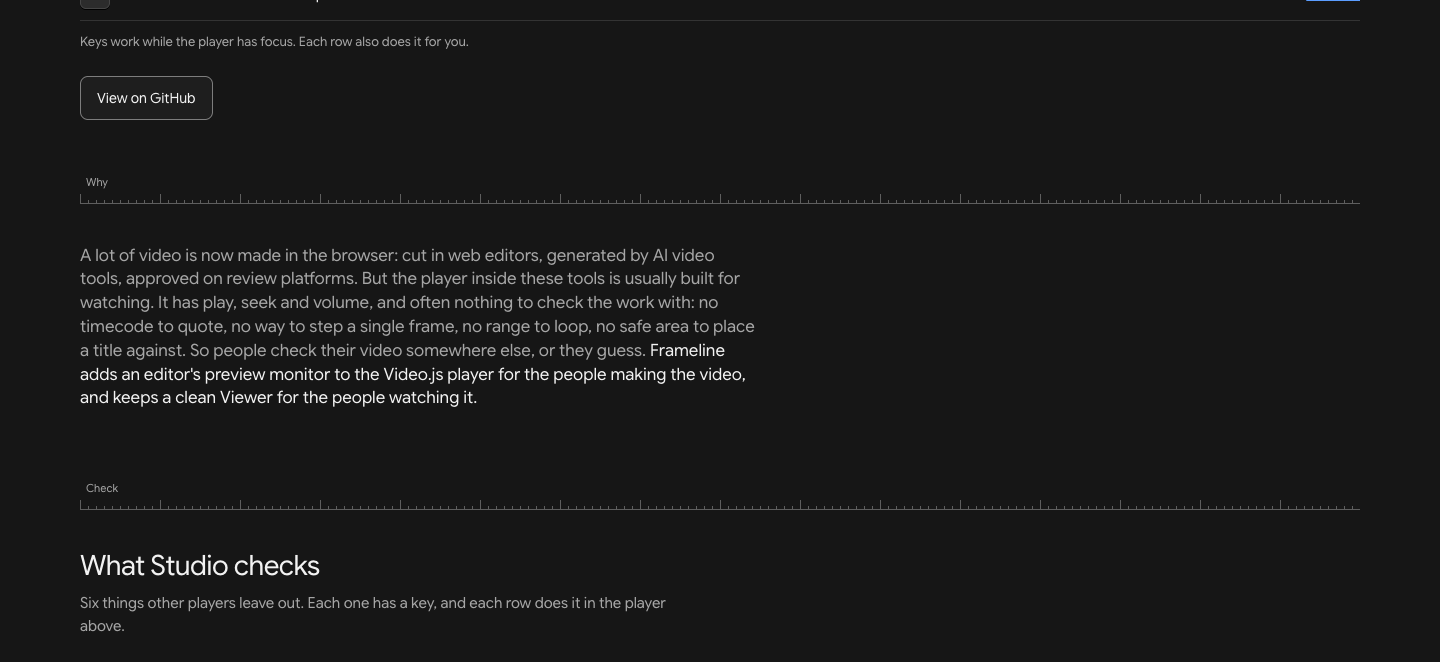
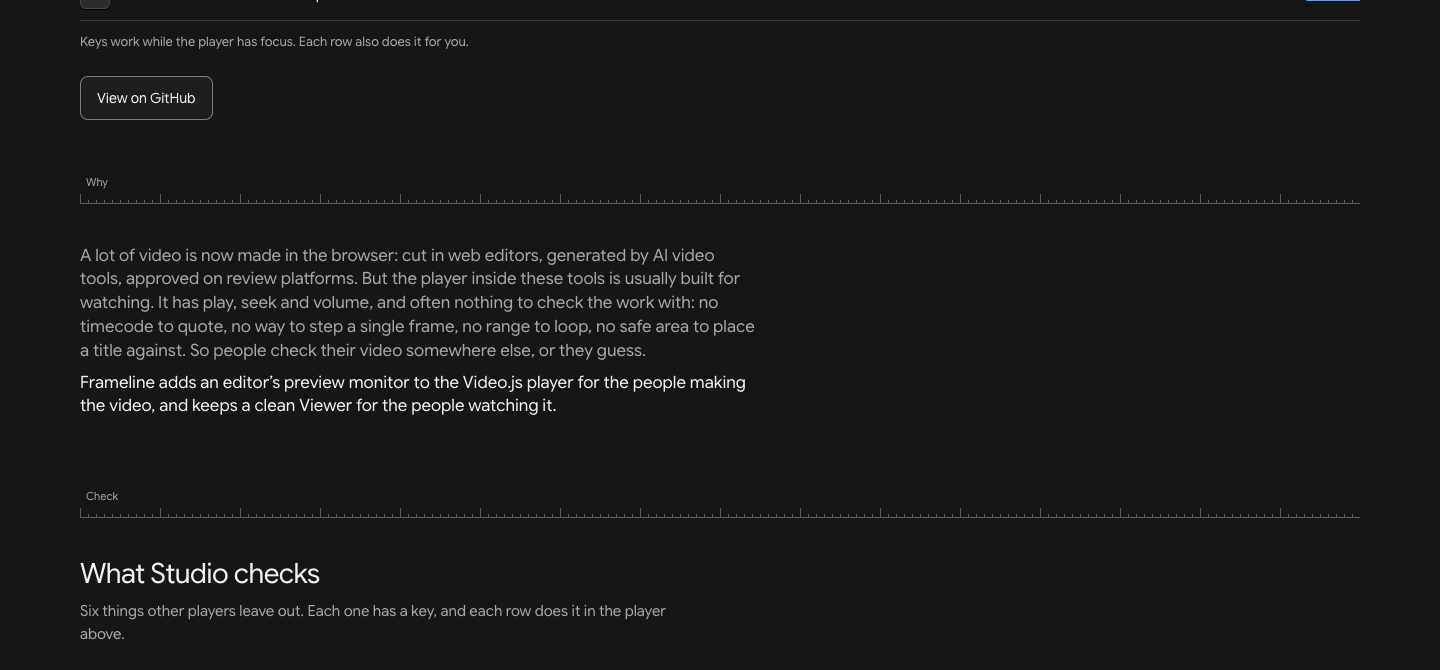
Landing: the motivation's answer on its own line, a curly apostrophe, pretty wrapping

diff --git a/apps/preview/index.html b/apps/preview/index.html
@@ -195,7 +195,7 @@
         <div class="ruler" aria-hidden="true"><span>Why</span></div>
         <div class="section-body">
           <h2 id="why-title" class="visually-hidden">Why Frameline exists</h2>
-          <p class="motivation">A lot of video is now made in the browser: cut in web editors, generated by AI video tools, approved on review platforms. But the player inside these tools is usually built for watching. It has play, seek and volume, and often nothing to check the work with: no timecode to quote, no way to step a single frame, no range to loop, no safe area to place a title against. So people check their video somewhere else, or they guess. <span>Frameline adds an editor's preview monitor to the Video.js player for the people making the video, and keeps a clean Viewer for the people watching it.</span></p>
+          <p class="motivation">A lot of video is now made in the browser: cut in web editors, generated by AI video tools, approved on review platforms. But the player inside these tools is usually built for watching. It has play, seek and volume, and often nothing to check the work with: no timecode to quote, no way to step a single frame, no range to loop, no safe area to place a title against. So people check their video somewhere else, or they guess. <span>Frameline adds an editor’s preview monitor to the Video.js player for the people making the video, and keeps a clean Viewer for the people watching it.</span></p>
         </div>
       </section>
 

diff --git a/apps/preview/src/page/landing.css b/apps/preview/src/page/landing.css
@@ -639,9 +639,13 @@ video-player {
   max-width: 680px;
   color: var(--dim);
   font: var(--type-lead);
+  text-wrap: pretty;
 }
 
+/* The answer starts on its own line. */
 .motivation span {
+  display: block;
+  margin-top: var(--space-8);
   color: var(--text);
 }
 

diff --git a/NOTES.md b/NOTES.md
@@ -2213,4 +2213,4 @@ Checks: typecheck, tests (225), build, `node scripts/contrast.mjs` (all rows pas
 
 ## Landing page: the motivation section (19 Nov 2026, branch `landing-motivation`, preview only)
 
-- A "Why" section (`#why`, visually hidden h2 "Why Frameline exists") between the hero block and "What Studio checks" holds the Brand content doc's Motivation paragraph verbatim: the problem in `--dim`, the last sentence in `--text` (`.motivation`, 680 px, `--type-lead`). The copy keeps the doc's straight apostrophe in "editor's", although the rest of the page uses curly ones.
+- A "Why" section (`#why`, visually hidden h2 "Why Frameline exists") between the hero block and "What Studio checks" holds the Brand content doc's Motivation paragraph verbatim: the problem in `--dim`, the last sentence in `--text` (`.motivation`, 680 px, `--type-lead`). The last sentence is a block 8 px below the rest, so the answer starts on its own line. "editor’s" takes a curly apostrophe, like the rest of the page (the doc has a straight one; the author's call). `text-wrap: pretty` is progressive: browsers without it (Firefox at the floor, Safari before 26) wrap normally.
